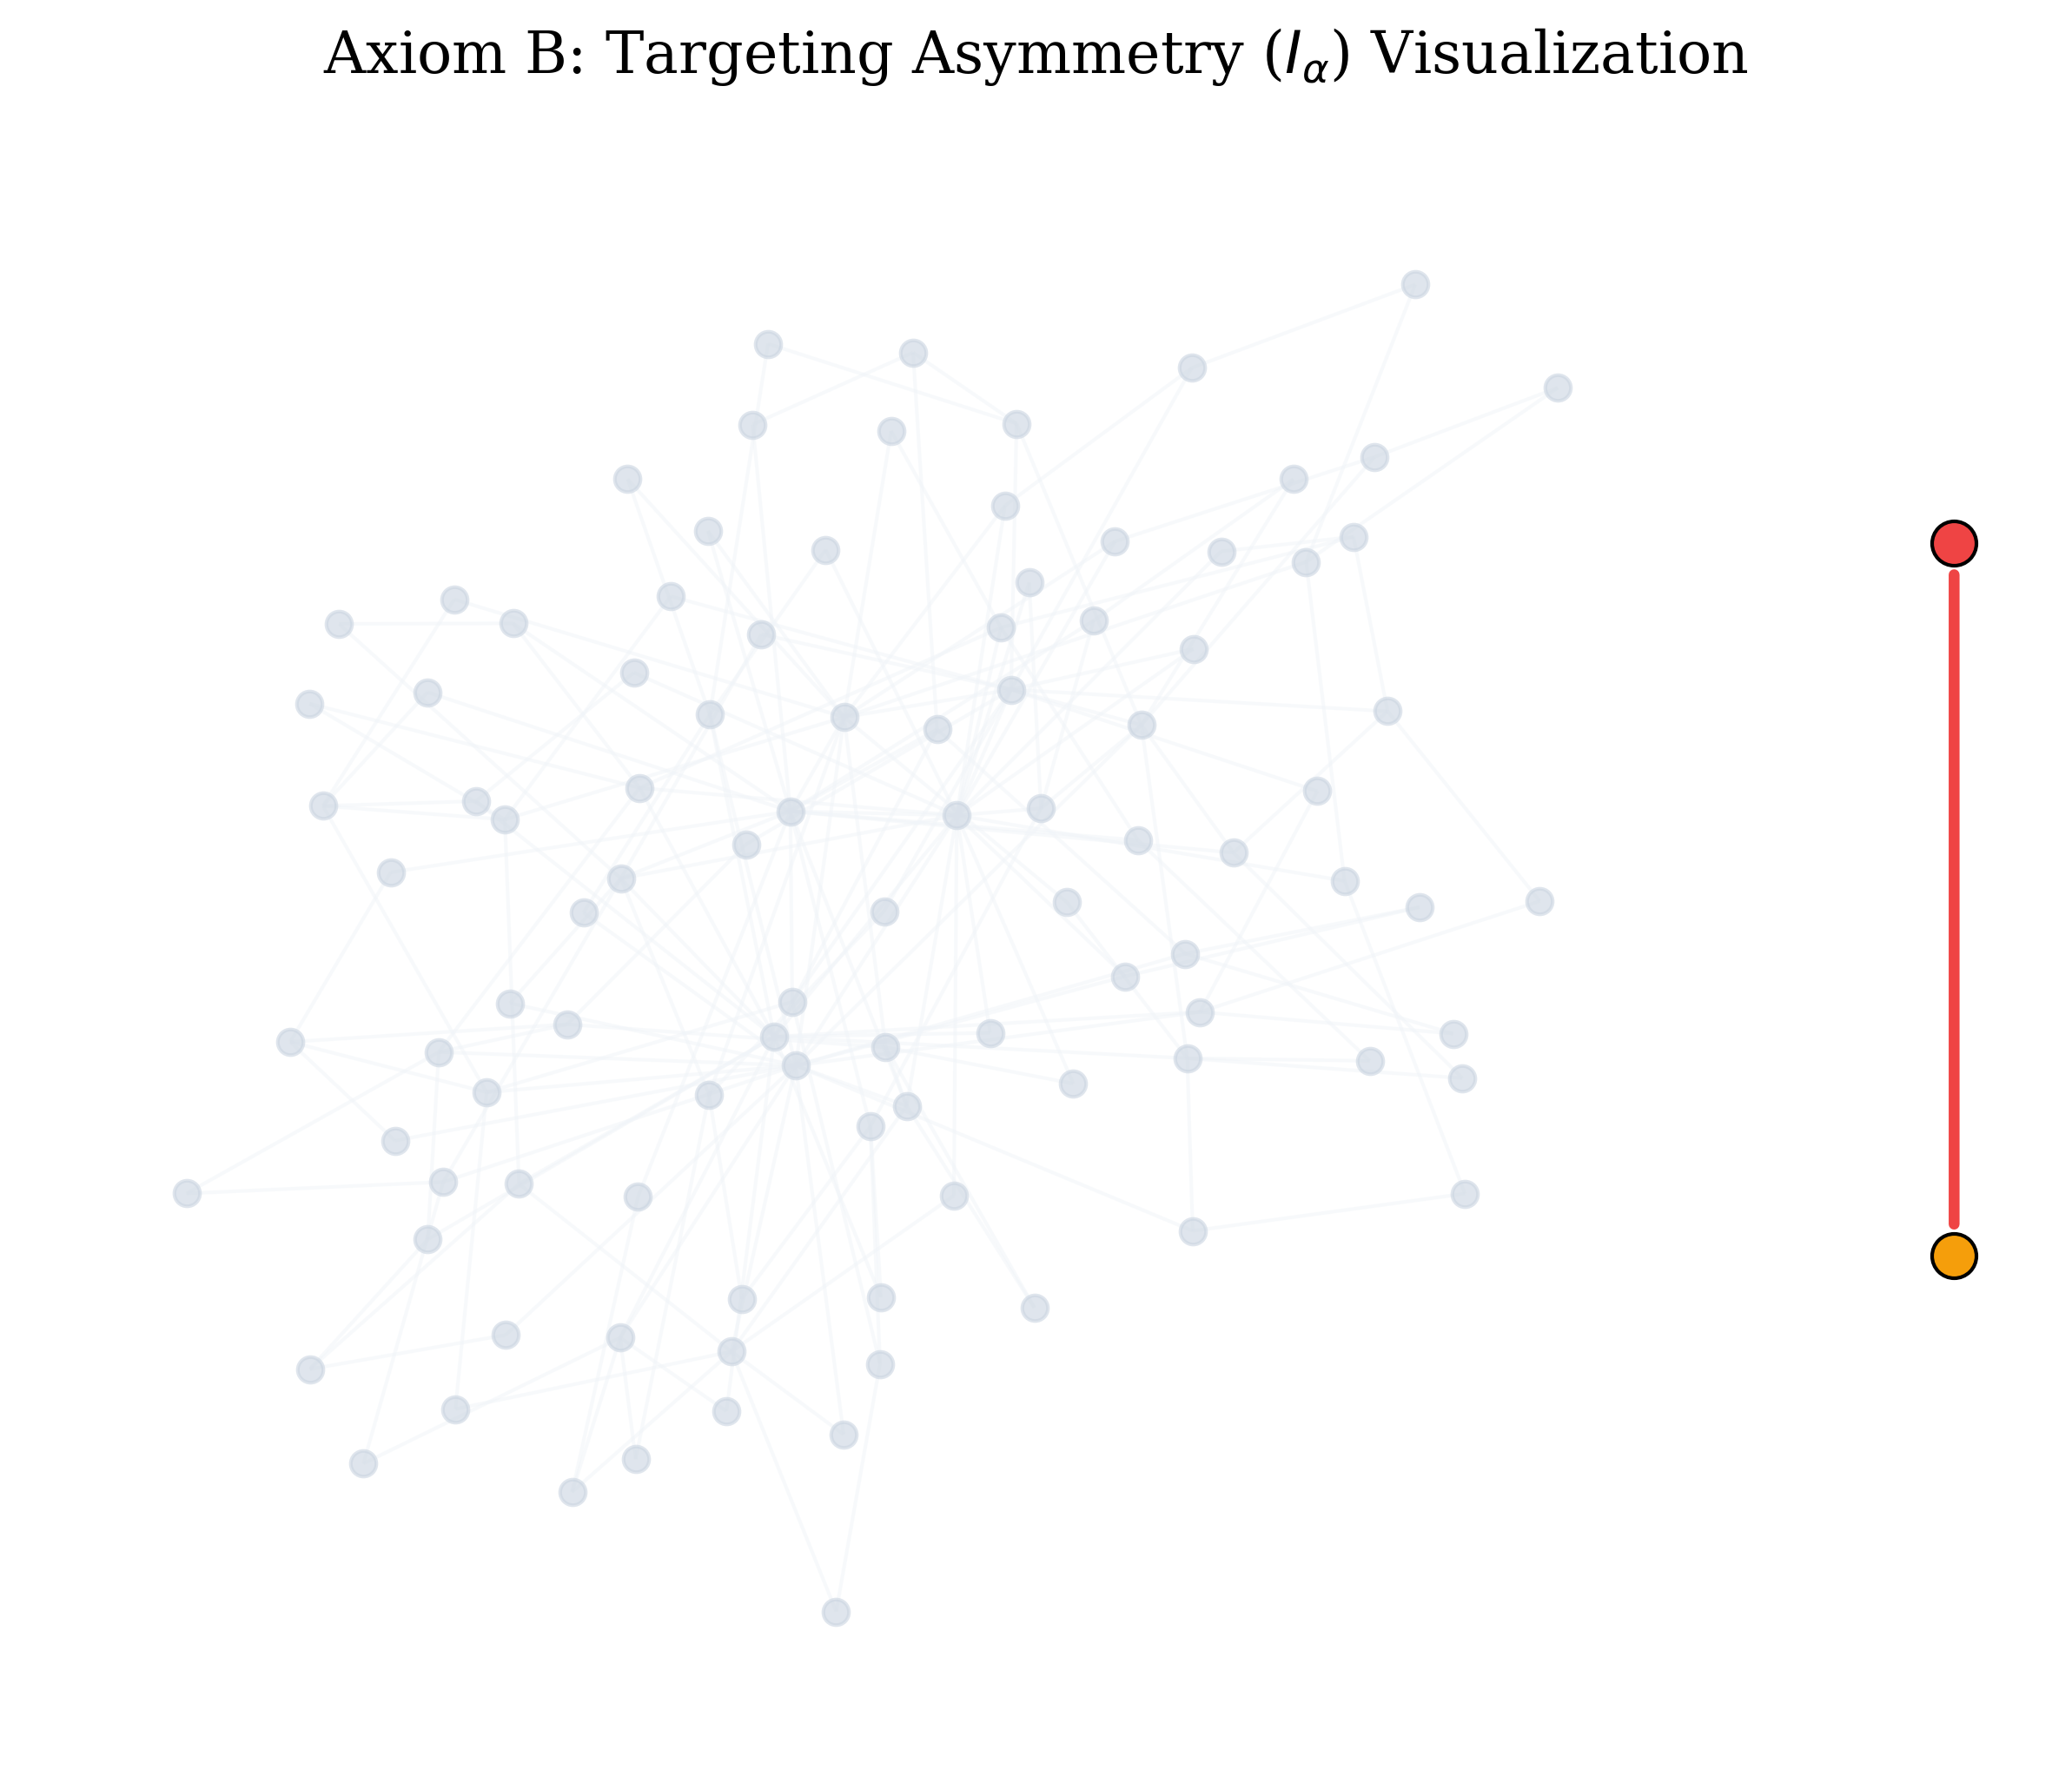
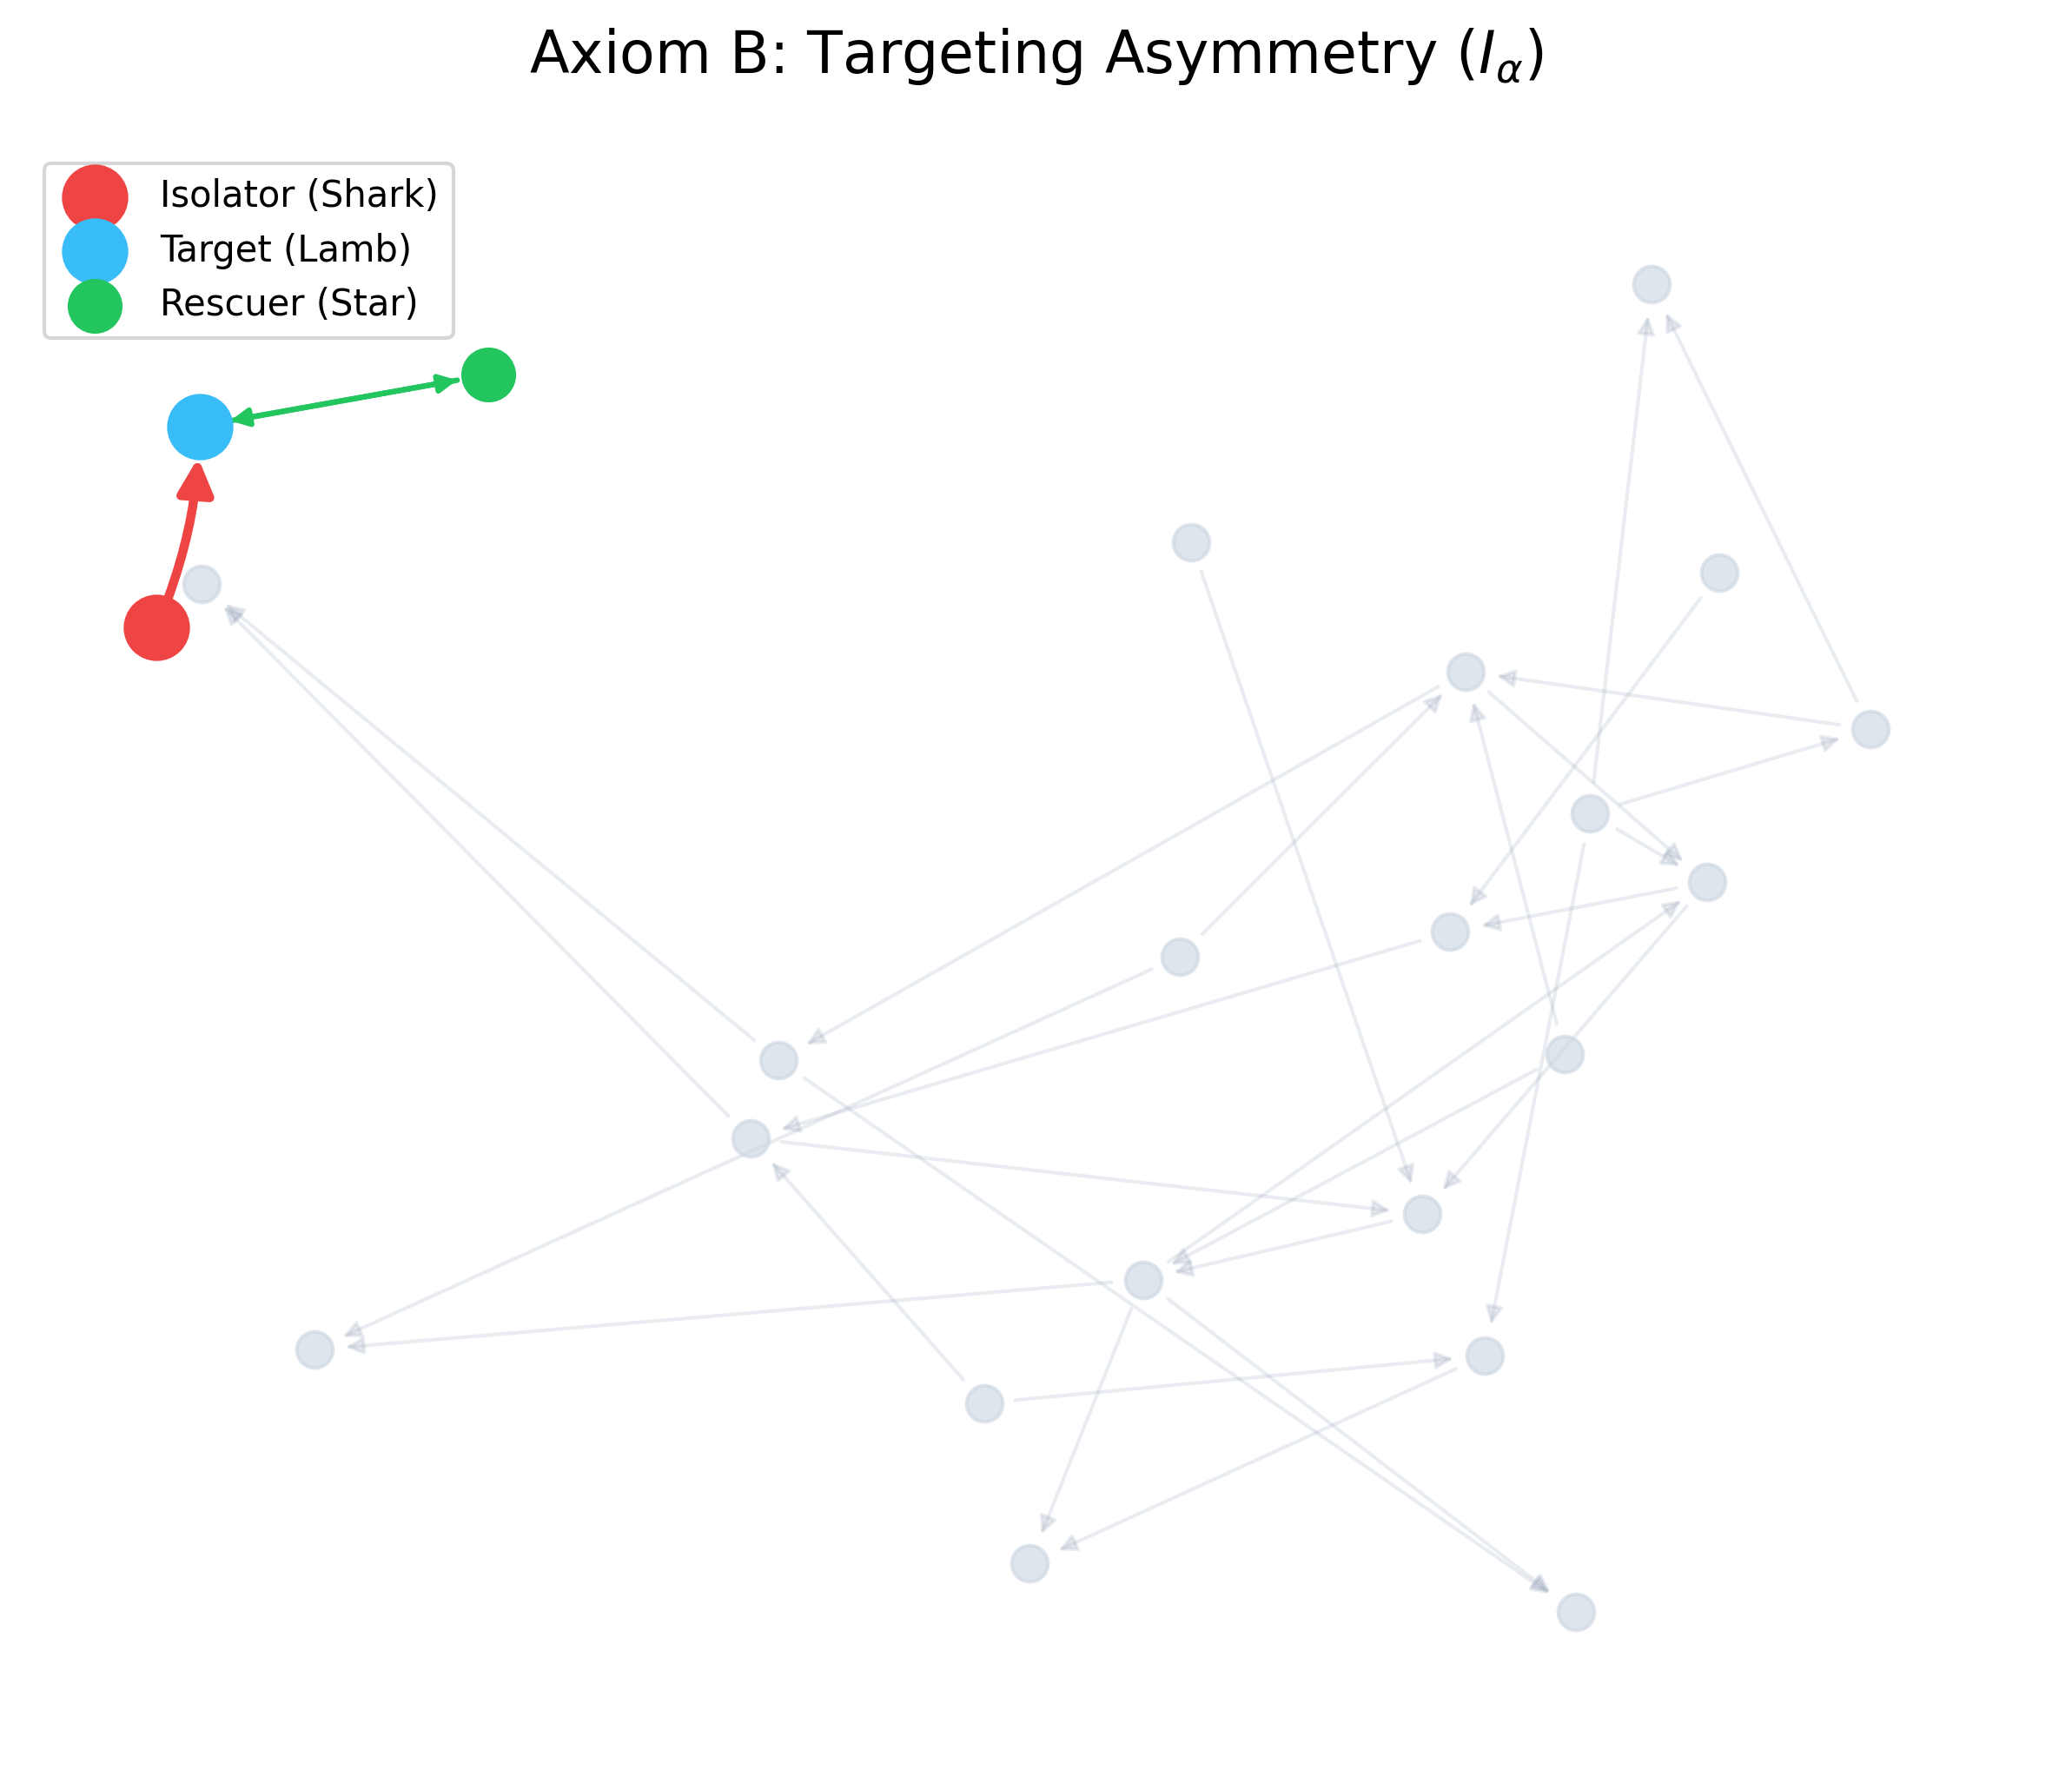
Add Python synthetic graph generator and generated asset images

diff --git a/synthetic_generator.py b/synthetic_generator.py
@@ -1,0 +1,103 @@
+import networkx as nx
+import matplotlib.pyplot as plt
+import numpy as np
+import os
+
+# Ensure the assets directory exists
+os.makedirs('assets', exist_ok=True)
+
+def generate_topology_anomaly():
+    """Generates a graph showing intense asymmetrical targeting (Axiom B)"""
+    G = nx.DiGraph()
+    
+    # Generate background ambient nodes
+    ambient_nodes = range(20)
+    for _ in range(30):
+        u, v = np.random.choice(ambient_nodes, 2, replace=False)
+        G.add_edge(u, v, weight=np.random.uniform(0.1, 0.5))
+
+    # Add the anomaly (Shark isolating the Lamb)
+    shark = 20
+    lamb = 21
+    rescuer = 22
+    
+    # Shark targets lamb heavily
+    for _ in range(8):
+        G.add_edge(shark, lamb, weight=np.random.uniform(2.0, 3.5))
+        
+    # Lamb has weak links to outside, Shark has NO links to outside except Lamb
+    G.add_edge(lamb, rescuer, weight=0.5)
+    G.add_edge(rescuer, lamb, weight=0.5)
+    
+    # Plotting
+    plt.figure(figsize=(10, 8), facecolor='white')
+    pos = nx.spring_layout(G, seed=42, k=0.5)
+    
+    # Draw ambient nodes
+    nx.draw_networkx_nodes(G, pos, nodelist=ambient_nodes, node_color='#cbd5e1', node_size=100, alpha=0.6)
+    nx.draw_networkx_edges(G, pos, edgelist=[(u,v) for u,v in G.edges() if u < 20 and v < 20], alpha=0.2, edge_color='#94a3b8')
+    
+    # Draw actors
+    nx.draw_networkx_nodes(G, pos, nodelist=[shark], node_color='#ef4444', node_size=300, label="Isolator (Shark)")
+    nx.draw_networkx_nodes(G, pos, nodelist=[lamb], node_color='#38bdf8', node_size=300, label="Target (Lamb)")
+    nx.draw_networkx_nodes(G, pos, nodelist=[rescuer], node_color='#22c55e', node_size=200, label="Rescuer (Star)")
+    
+    # Draw intense anomalous edges
+    anomalous_edges = [(shark, lamb)]
+    nx.draw_networkx_edges(G, pos, edgelist=anomalous_edges, edge_color='#ef4444', width=2.5, arrowsize=20, connectionstyle='arc3,rad=0.1')
+    
+    # Draw rescuer edges
+    nx.draw_networkx_edges(G, pos, edgelist=[(rescuer, lamb), (lamb, rescuer)], edge_color='#22c55e', width=1.5)
+    
+    plt.title("Axiom B: Targeting Asymmetry ($I_\\alpha$)", fontsize=16, pad=20)
+    plt.legend(scatterpoints=1, frameon=True, loc='upper left')
+    plt.axis('off')
+    
+    plt.savefig('assets/topology_anomaly.png', dpi=300, bbox_inches='tight', facecolor='white')
+    plt.close()
+
+def generate_cross_platform_stylometry():
+    """Generates a graph showing multi-channel linkage"""
+    plt.figure(figsize=(12, 6), facecolor='white')
+    
+    platforms = ['Telegram (Node A)', 'Discord (Node B)', 'WhatsApp (Node C)']
+    colors = ['#0088cc', '#5865F2', '#25D366']
+    
+    # Generate random stylized vectors
+    t = np.linspace(0, 10, 100)
+    
+    for i, (plat, color) in enumerate(zip(platforms, colors)):
+        # Base vector signature (the "Authorial DNA")
+        base_signature = np.sin(t) + np.sin(2.5 * t) * 0.5
+        
+        # Add platform-specific noise
+        noise = np.random.normal(0, 0.15, 100)
+        
+        # Shift slightly for visual separation
+        y_offset = (2 - i) * 3
+        
+        plt.plot(t, base_signature + noise + y_offset, color=color, alpha=0.7, linewidth=2, label=plat)
+        
+        # Add a "centroid" line showing the perfect alignment
+        plt.plot(t, base_signature + y_offset, color='#1e293b', linestyle='--', alpha=0.8, linewidth=1.5)
+    
+    # Add vertical mapping lines to show vector alignment
+    for x_val in [2, 5, 8]:
+        plt.axvline(x=x_val, color='#ef4444', linestyle=':', alpha=0.6, linewidth=2)
+        
+    plt.title("Stylometric Inter-Identity Vector Mapping ($D_{ST}$)", fontsize=16, pad=20)
+    plt.xlabel("Temporal Operation Window ($t$)", fontsize=12)
+    plt.ylabel("Semantic Vector ($v \\in \mathbb{R}^d$)", fontsize=12)
+    
+    plt.yticks([])
+    plt.xticks([])
+    plt.legend(loc='upper right', frameon=True)
+    
+    plt.savefig('assets/cross_platform_stylometry.png', dpi=300, bbox_inches='tight', facecolor='white')
+    plt.close()
+
+if __name__ == "__main__":
+    print("Generating topological graphs...")
+    generate_topology_anomaly()
+    generate_cross_platform_stylometry()
+    print("Successfully generated graphs in /assets/")